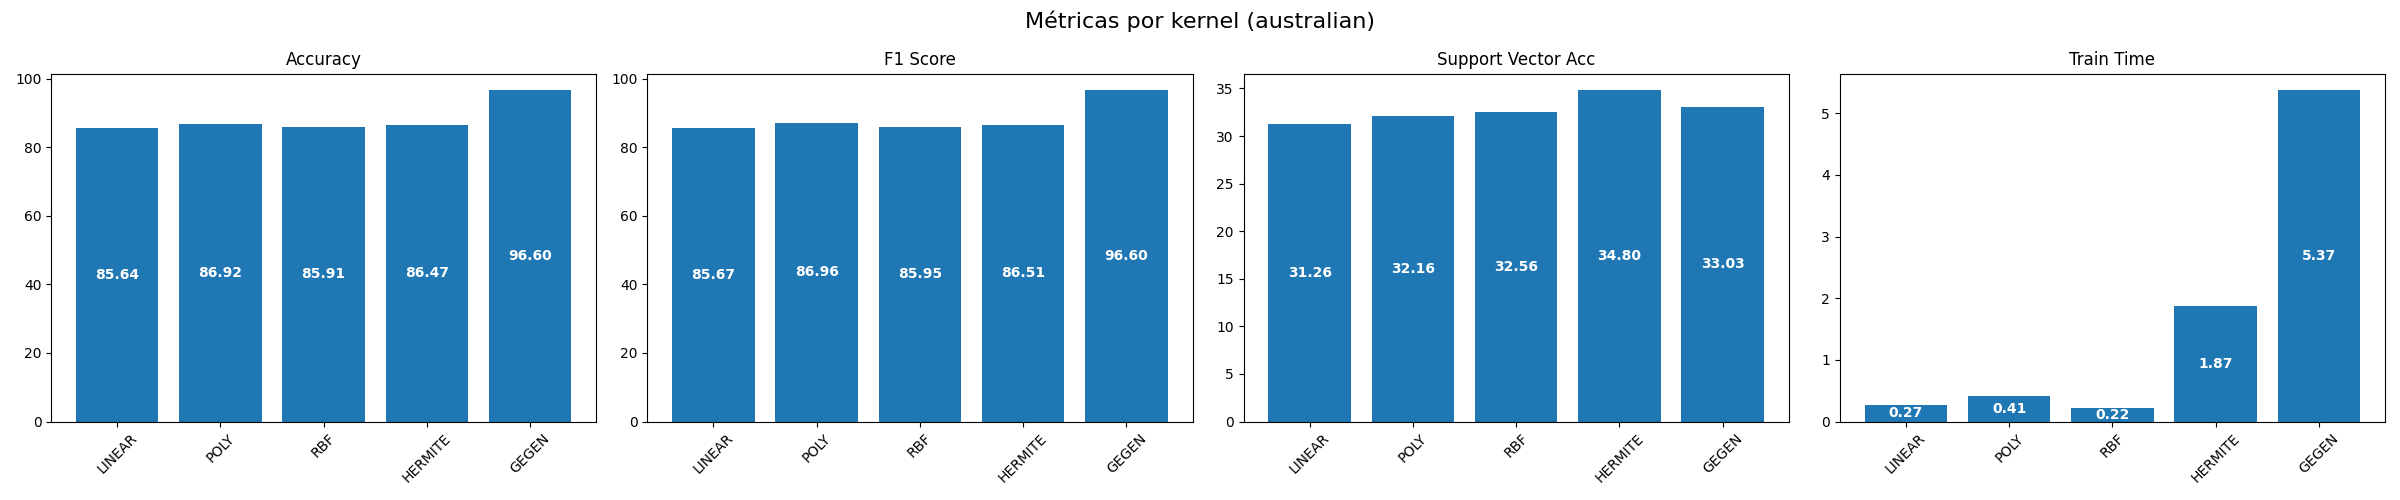
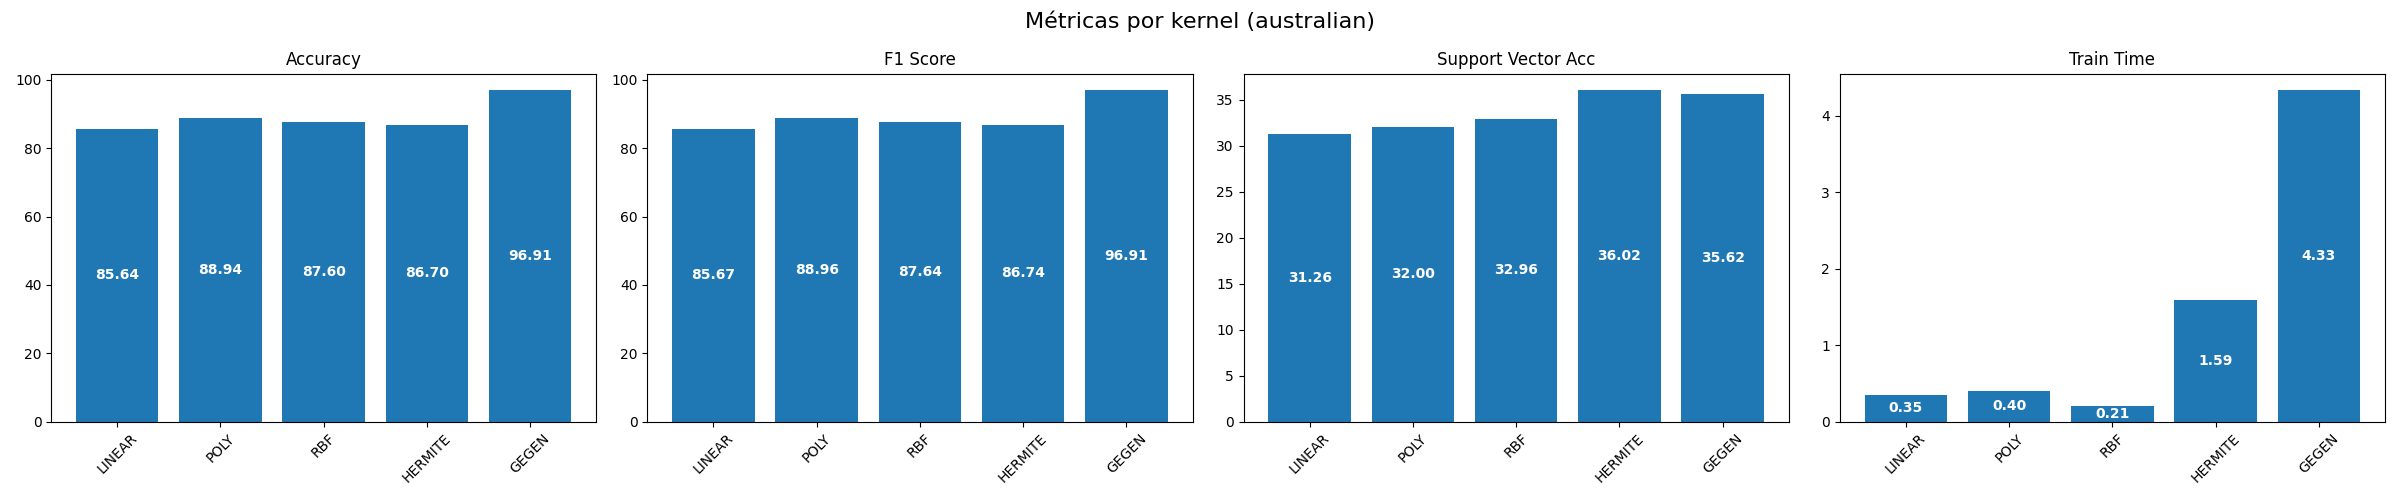
Se meten los PCA, se mejora la transformacion de los datos

diff --git a/experiments.py b/experiments.py
@@ -5,6 +5,8 @@ import pandas as pd
 import time
 from pathlib import Path
 import argparse
+import numpy as _np
+from sklearn.decomposition import PCA
 
 from Data.loader import load_all_datasets, load_expected_results
 from Kernels.all_kernels import build_kernels
@@ -12,7 +14,7 @@ from Model.train import train_svm
 from Analysis.plots import (
     plot_metrics_comparison,
     plot_accuracy_diff_table,
-    plot_decision_boundary
+    plot_pca_evolution
 )
 
 from sklearn.model_selection import train_test_split
@@ -47,15 +49,24 @@ def main(config_path: str, do_plots: bool = True):
 
     # --- 4. Iterar datasets × kernels ---
     records = []
+    pca_steps = cfg.get('pca', {}).get('n_steps', 0)
+    # Si pongo a 0 en el json el numero de pasos no se ejecuta el PCA sino los experimentos normales
+    do_pca = bool(pca_steps)
     for ds_name, X, y in datasets:
         log.info(f"=== Dataset: {ds_name} ===")
+
+        n_feats = X.shape[1]-1
+        raw = _np.linspace(2, n_feats, num=pca_steps)
+        dims = sorted({
+            int(_np.clip(_np.round(v), 0, n_feats))
+            for v in raw
+        })
 
         # Para cada kernel
         for kern in kernels:
             name = kern['name']
             func = kern['func']
             log.info(f"Entrenando kernel: {name}")
-
             # Entrenar
             start = time.perf_counter()
             metrics = train_svm(
@@ -63,7 +74,8 @@ def main(config_path: str, do_plots: bool = True):
                 kernel_func=func,
                 C=svm_cfg['C'],
                 cv=cfg['cross_validation']['n_splits'],
-                n_jobs=cfg['cross_validation']['n_jobs']
+                n_jobs=cfg['cross_validation']['n_jobs'],
+                pca_dim=n_feats
             )
             elapsed = time.perf_counter() - start
             metrics['train_time'] = elapsed
@@ -83,6 +95,39 @@ def main(config_path: str, do_plots: bool = True):
                 **metrics
             }
             records.append(rec)
+
+            if do_pca:
+                if n_feats not in dims:
+                    dims.append(n_feats)
+                for d in dims:
+                    log.info(f"   PCA -> n_components={d}")
+                    start = time.perf_counter()
+                    m_pca = train_svm(
+                        X, y,
+                        kernel_func=func,
+                        C=svm_cfg['C'],
+                        cv=cfg['cross_validation']['n_splits'],
+                        n_jobs=cfg['cross_validation']['n_jobs'],
+                        pca_dim=d
+                    )
+                    t_pca = time.perf_counter() - start
+                    m_pca['train_time'] = t_pca
+
+                    rec_pca = {
+                        'dataset': ds_name,
+                        'kernel':  name,
+                        'pca_dim': d,
+                        'svm.C': svm_cfg['C'],
+                        'svm.poly.degree':       svm_cfg['poly']['degree'] if name=="POLY" else None,
+                        'svm.poly.gamma':        svm_cfg['poly']['gamma']  if name=="POLY" else None,
+                        'svm.custom_hermite.degree': svm_cfg['custom_hermite']['degree'] if name=="HERMITE" else None,
+                        'svm.custom_gegen.alpha':    svm_cfg['custom_gegen']['alpha']   if name=="GEGEN"  else None,
+                        **m_pca
+                    }
+                    records.append(rec_pca)
+                rec_full = rec.copy()
+                rec_full['pca_dim'] = n_feats+1
+                records.append(rec_full)
 
         # --- 5. Plot métricas y tabla de diferencias ---
         df_ds = pd.DataFrame([r for r in records if r['dataset'] == ds_name])
@@ -113,6 +158,13 @@ def main(config_path: str, do_plots: bool = True):
             df_ds.to_dict(orient='records'),
             metrics=['accuracy', 'f1_score', 'support_vector_acc', 'train_time'],
             save_path=plot_path,
+            show=do_plots
+        )
+
+        plot_pca_evolution(
+            df_ds.to_dict('records'),
+            metrics=['accuracy', 'support_vector_acc', 'train_time'],
+            save_path=os.path.join(cfg['output']['plots_dir'], f"{ds_name}_pca"),
             show=do_plots
         )
 

diff --git a/Model/train.py b/Model/train.py
@@ -9,54 +9,59 @@ from sklearn.metrics import make_scorer, f1_score
 from sklearn.svm import SVC
 
 
-def train_svm(X, y, kernel_func, C=1.0, cv=10, n_jobs=-1):
+from sklearn.pipeline import Pipeline
+from sklearn.preprocessing import MinMaxScaler
+from sklearn.decomposition import PCA
+from sklearn.svm import SVC
+from sklearn.model_selection import StratifiedKFold
+from sklearn.metrics import f1_score
+import numpy as np
+
+def train_svm(
+    X, y,
+    kernel_func,
+    C=1.0,
+    cv=10,
+    n_jobs=-1,
+    pca_dim: int | None = None
+):
     """
-    Realiza validación cruzada con el kernel dado y devuelve métricas promedio,
-    incluyendo estadísticas de vectores soporte.
+    Realiza validación cruzada con el kernel dado.
+    Si pca_dim!=None, aplica PCA(n_components=pca_dim) dentro del pipeline
+    (previo al escalado y al SVC), fold a fold.
     """
-    pipe = Pipeline([
-        ('scaler', MinMaxScaler()),
-        ('svc', SVC(kernel=kernel_func, C=C))
-    ])
-    
-    # Configurar cross-validation
+    steps = []
+    if pca_dim is not None:
+        steps.append(('pca', PCA(n_components=pca_dim)))
+    steps += [
+        ('scaler', MinMaxScaler(feature_range=(-1, 1))),
+        ('svc',    SVC(kernel=kernel_func, C=C))
+    ]
+
+    pipe = Pipeline(steps)
     cv_splitter = StratifiedKFold(n_splits=cv)
-    support_proportions = []
-    acc_scores = []
-    f1_scores = []
-    
+    support_props, accs, f1s = [], [], []
+
     for train_idx, _ in cv_splitter.split(X, y):
-        X_train_fold, y_train_fold = X[train_idx], y[train_idx]
-        
-        # Entrenar modelo en el fold
-        pipe.fit(X_train_fold, y_train_fold)
-        
-        # Obtener porcentaje de vectores soporte
-        n_support = pipe.named_steps['svc'].support_.shape[0]
-        support_prop = (n_support / len(X_train_fold)) * 100  # Porcentaje
-        support_proportions.append(support_prop)
-        
-        # Calcular métricas en validation
-        X_val_fold, y_val_fold = X[~train_idx], y[~train_idx]
-        acc = pipe.score(X_val_fold, y_val_fold)
-        f1 = f1_score(y_val_fold, pipe.predict(X_val_fold), average='weighted')
-        
-        acc_scores.append(acc)
-        f1_scores.append(f1)
-    
-    # Convertir a arrays numpy
-    acc_scores = np.array(acc_scores)
-    f1_scores = np.array(f1_scores)
-    support_proportions = np.array(support_proportions)
-    
+        X_tr, y_tr = X[train_idx], y[train_idx]
+        pipe.fit(X_tr, y_tr)
+
+        n_sup = pipe.named_steps['svc'].support_.shape[0]
+        support_props.append(n_sup / len(X_tr) * 100)
+
+        X_val, y_val = X[~train_idx], y[~train_idx]
+        accs.append(pipe.score(X_val, y_val))
+        f1s.append(f1_score(y_val, pipe.predict(X_val), average='weighted'))
+
     return {
-        'accuracy': acc_scores.mean() * 100,
-        'accuracy_std': acc_scores.std() * 100,
-        'f1_score': f1_scores.mean() * 100,
-        'f1_score_std': f1_scores.std() * 100,
-        'support_vector_acc': support_proportions.mean(),
-        'support_vector_std': support_proportions.std()
+        'accuracy':          np.mean(accs) * 100,
+        'accuracy_std':      np.std(accs) * 100,
+        'f1_score':          np.mean(f1s) * 100,
+        'f1_score_std':      np.std(f1s) * 100,
+        'support_vector_acc': np.mean(support_props),
+        'support_vector_std': np.std(support_props)
     }
+
 
 def tune_svm(
     X: np.ndarray,

diff --git a/Analysis/plots.py b/Analysis/plots.py
@@ -82,6 +82,9 @@ def plot_metrics_comparison(results, metrics=['accuracy', 'f1_score', 'n_support
     :param save_path: If provided, path to save the figure as .png
     """
     import matplotlib.pyplot as plt
+    results = [r for r in results if r.get('pca_dim') is None]
+    if not results:
+        return  # no hay nada que bar‑plotear
 
     kernel_names = [r['kernel'] for r in results]
 
@@ -159,3 +162,58 @@ def plot_accuracy_diff_table(
         plt.show()
     else:
         plt.close()
+
+def plot_pca_evolution(
+    results: list[dict],
+    metrics: list[str],
+    save_path: str | None = None,
+    show: bool = True
+):
+    """
+    Dibuja la evolución de múltiples métricas (accuracy, f1_score, etc.)
+    en función de la dimensión PCA (`pca_dim`), con una línea por kernel.
+    
+    :param results: lista de registros con campos 'kernel', 'pca_dim' y métricas.
+    :param metrics: lista de métricas a graficar.
+    :param save_path: ruta base para guardar las imágenes (sin la métrica).
+    :param show: si True, muestra las gráficas.
+    """
+    df = pd.DataFrame(results)
+    
+    if df.empty:
+        print("No hay datos PCA disponibles.")
+        return
+    if 'pca_dim' not in df.columns:
+        # No hay datos de PCA, salir sin error
+        return
+    
+    df = df.dropna(subset=['pca_dim'])
+    kernels = df['kernel'].unique()
+
+    for metric in metrics:
+        if metric not in df.columns:
+            print(f"[Advertencia] Métrica `{metric}` no encontrada.")
+            continue
+
+        fig, ax = plt.subplots(figsize=(8,5))
+        for k in kernels:
+            sub = df[df['kernel'] == k].sort_values('pca_dim')
+            ax.plot(sub['pca_dim'], sub[metric], marker='o', label=k)
+
+        ax.set_xlabel('n_components (PCA)')
+        ax.set_ylabel(metric.replace('_',' ').title())
+        dataset_name = df["dataset"].unique()[0]
+        ax.set_title(f'Evolución de {metric.replace("_", " ").title()} vs. PCA dim - {dataset_name}')
+        ax.legend()
+        ax.grid(True, linestyle='--', alpha=0.5)
+        plt.tight_layout()
+
+        if save_path:
+            metric_filename = f"{save_path.rstrip('.png')}_{metric}.png"
+            plt.savefig(metric_filename)
+            print(f"[Plot PCA] Guardado en {metric_filename}")
+
+        if show:
+            plt.show()
+        else:
+            plt.close()
